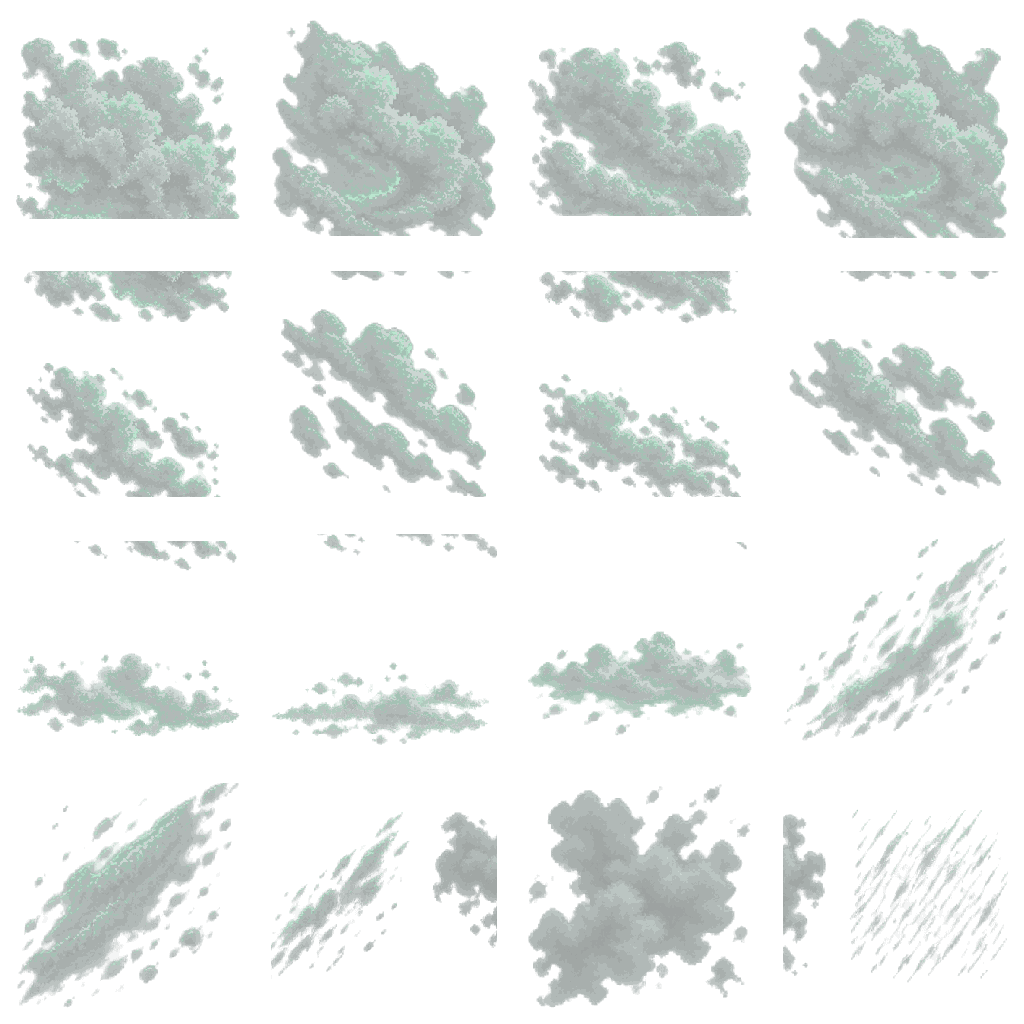
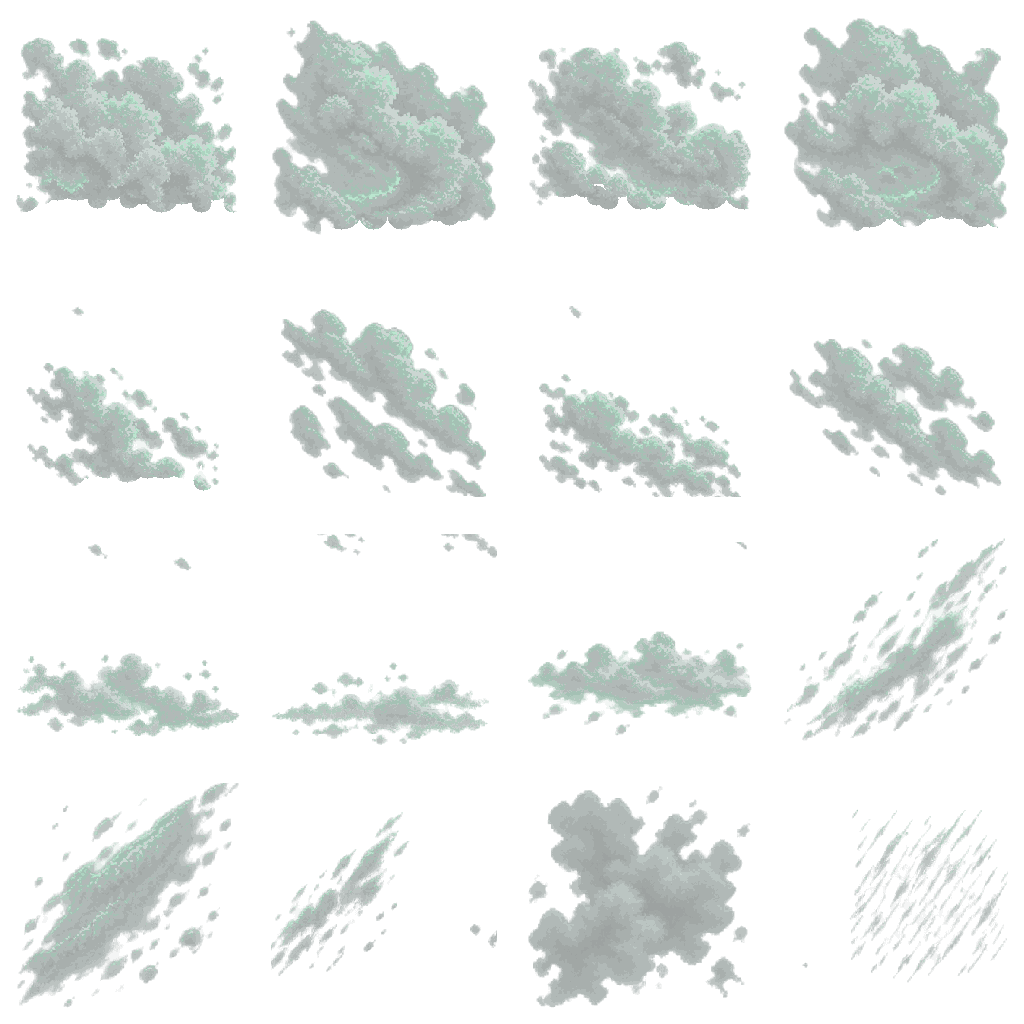
Tide clouds are never cut: banks 0 and 2 lost their flat lower edge (re-scalloped into puffs), flat-topped slivers of the neighbouring cloud dropped from the wisp and mist cells; TideCloudCutTest checks cloud cuts and tile wrap joins

diff --git a/Pause/Assets/Editor/Tests/TideCloudCutTest.cs b/Pause/Assets/Editor/Tests/TideCloudCutTest.cs
@@ -1,0 +1,147 @@
+using System.Collections.Generic;
+using System.IO;
+using UnityEngine;
+
+// TIDE CLOUDS ARE NEVER CUT, AND THE SEA TILES WRAP CLEAN. The Tide teal cloud ceiling (weather.png: cloud_bank, cloud_wisp, mist,
+// gust, pall, rain) is cut from 256 px cells of a painted sheet. The sheet slicing left two defects that drew straight horizontal
+// cut lines across the ceiling in game (BuildCeiling even had to push the rows off screen to hide one):
+//   * a bank whose lower edge is flat, an opaque run far longer than any puff, and
+//   * flat-topped slivers of the cloud ABOVE it in the sheet, left on the top of the next cell (wisps, mist).
+// So: (1) per connected component of every cloud cell, no bounding-box edge holds a straight opaque run over FlatRun, and no
+// small component rests on the cell margin; (2) every ground tile (sky, far, mid, flow x v1..v4) wraps: the join between its
+// last row and its first is no harder than the tile's own row-to-row steps, and no row inside it is a hard horizontal cut.
+//
+//   Unity -batchmode -quit -projectPath <abs>/Pause -executeMethod TideCloudCutTest.Run
+public static class TideCloudCutTest
+{
+    static int fails;
+    static void Check(string what, bool ok)
+    {
+        Debug.Log((ok ? "[TCC] PASS  " : "[TCC] FAIL  ") + what);
+        if (!ok) fails++;
+    }
+
+    public static void Run() { TestHarness.Exit(Execute()); }
+
+    const string Dir = "Assets/Art/Backgrounds/Resources/Worlds/Tide/Backdrop3/";
+    const int Border = 8, FlatRun = 20, Margin = 16, SpeckArea = 1500;
+    const float StepRatio = 6f, JoinRatio = 2.5f;
+
+    [System.Serializable] class Cell { public string n; public int x, y, w, h; }
+    [System.Serializable] class Sheet { public Cell[] sprites; }
+
+    public static int Execute()
+    {
+        fails = 0;
+        Clouds();
+        foreach (var v in new[] { "v1", "v2", "v3", "v4" })
+            foreach (var l in new[] { "sky", "far", "mid", "flow" }) Tile(v, l);
+        Debug.Log("[TCC] failures: " + fails);
+        return fails;
+    }
+
+    static Texture2D Load(string png)
+    {
+        var tex = new Texture2D(2, 2);
+        tex.LoadImage(File.ReadAllBytes(png));
+        return tex;
+    }
+
+    // ---------------------------------------------------------------- clouds --
+
+    static void Clouds()
+    {
+        string png = Dir + "weather.png";
+        if (!File.Exists(png)) { Check("Tide weather: atlas exists", false); return; }
+        var tex = Load(png);
+        var px = tex.GetPixels32();
+        int W = tex.width;
+        var sheet = JsonUtility.FromJson<Sheet>(File.ReadAllText(Dir + "weather.json"));
+        var bad = new List<string>();
+        foreach (var c in sheet.sprites) Cut(px, W, c, bad);
+        Object.DestroyImmediate(tex);
+        Check("Tide weather: no cloud edge is cut flat and no sliver sits on a cell margin (" + (bad.Count == 0 ? "none" : string.Join("; ", bad)) + ")", bad.Count == 0);
+    }
+
+    // y runs down the cell; texture rows run bottom-up
+    static bool Solid(Color32[] px, int W, Cell c, int x, int y) { return px[(c.y + c.h - 1 - y) * W + c.x + x].a > Border; }
+
+    static void Cut(Color32[] px, int W, Cell c, List<string> bad)
+    {
+        var lab = new int[c.w * c.h];
+        var stack = new Stack<int>();
+        int next = 0;
+        for (int s = 0; s < lab.Length; s++)
+        {
+            if (lab[s] != 0 || !Solid(px, W, c, s % c.w, s / c.w)) continue;
+            next++;
+            var pts = new List<int>();
+            lab[s] = next; stack.Push(s);
+            while (stack.Count > 0)
+            {
+                int p = stack.Pop(); pts.Add(p);
+                int x = p % c.w, y = p / c.w;
+                for (int dy = -1; dy <= 1; dy++)
+                    for (int dx = -1; dx <= 1; dx++)
+                    {
+                        int nx = x + dx, ny = y + dy;
+                        if (nx < 0 || ny < 0 || nx >= c.w || ny >= c.h) continue;
+                        int q = ny * c.w + nx;
+                        if (lab[q] == 0 && Solid(px, W, c, nx, ny)) { lab[q] = next; stack.Push(q); }
+                    }
+            }
+            int x0 = int.MaxValue, x1 = -1, y0 = int.MaxValue, y1 = -1;
+            foreach (int p in pts) { int x = p % c.w, y = p / c.w; if (x < x0) x0 = x; if (x > x1) x1 = x; if (y < y0) y0 = y; if (y > y1) y1 = y; }
+            if (pts.Count < 10) continue;
+            int t = Run(lab, c, next, x0, y0, 1, 0), b = Run(lab, c, next, x0, y1, 1, 0), l = Run(lab, c, next, x0, y0, 0, 1), r = Run(lab, c, next, x1, y0, 0, 1);
+            string at = c.n + " part " + pts.Count + "px";
+            if (t > FlatRun) bad.Add(at + " top flat run " + t);
+            if (b > FlatRun) bad.Add(at + " bottom flat run " + b);
+            if (l > FlatRun) bad.Add(at + " left flat run " + l);
+            if (r > FlatRun) bad.Add(at + " right flat run " + r);
+            bool margin = y0 <= Margin;                       // the sheet's slivers hang from the top of the cell
+            if (margin && pts.Count < SpeckArea) bad.Add(at + " is a sliver hanging from the cell top");
+        }
+    }
+
+    // longest unbroken run of one component's pixels along the row (dx 1) or column (dy 1) through (x, y)
+    static int Run(int[] lab, Cell c, int id, int x, int y, int dx, int dy)
+    {
+        int best = 0, cur = 0, n = dx == 1 ? c.w : c.h;
+        for (int i = 0; i < n; i++)
+        {
+            cur = lab[(y + dy * i) * c.w + x + dx * i] == id ? cur + 1 : 0;
+            if (cur > best) best = cur;
+        }
+        return best;
+    }
+
+    // ----------------------------------------------------------------- tiles --
+
+    static void Tile(string v, string layer)
+    {
+        string png = Dir + v + "/" + layer + ".png";
+        if (!File.Exists(png)) { Check("Tide " + v + "/" + layer + ": tile exists", false); return; }
+        var tex = Load(png);
+        var px = tex.GetPixels32();
+        int W = tex.width, H = tex.height;
+        var steps = new float[H];                  // steps[y] = mean |row y - row y+1| (the last entry wraps to row 0)
+        for (int y = 0; y < H; y++)
+        {
+            int a = y * W, b = ((y + 1) % H) * W;
+            float sum = 0;
+            for (int x = 0; x < W; x++)
+                sum += Mathf.Abs(px[a + x].r - px[b + x].r) + Mathf.Abs(px[a + x].g - px[b + x].g) + Mathf.Abs(px[a + x].b - px[b + x].b) + Mathf.Abs(px[a + x].a - px[b + x].a);
+            steps[y] = sum / (4f * W);
+        }
+        Object.DestroyImmediate(tex);
+        var sorted = (float[])steps.Clone();
+        System.Array.Sort(sorted);
+        float median = Mathf.Max(sorted[H / 2], 0.5f);
+        float worst = 0; int at = 0;
+        for (int y = 0; y < H - 1; y++) if (steps[y] > worst) { worst = steps[y]; at = y; }
+        float join = steps[H - 1];
+        Check("Tide " + v + "/" + layer + ": the wrap join (" + join.ToString("F1") + ") is as soft as its own steps (median " + median.ToString("F1") + ")", join <= median * JoinRatio);
+        Check("Tide " + v + "/" + layer + ": no row is a hard cut (worst step " + worst.ToString("F1") + " at row " + at + ", median " + median.ToString("F1") + ")", worst <= median * StepRatio);
+    }
+}

diff --git a/Pause/Assets/Art/Worlds/Tide/backdrop_v3~/cloud_cuts/fix_weather_cuts.py b/Pause/Assets/Art/Worlds/Tide/backdrop_v3~/cloud_cuts/fix_weather_cuts.py
@@ -1,0 +1,77 @@
+#!/usr/bin/env python3
+"""Tide weather atlas: no cloud is cut flat. Slivers that Codex's sheet slicing left on a cell's edge (flat top, a long
+straight opaque run) are dropped whole by connected component; a cloud whose own edge is cut flat gets that edge re-scalloped
+into 4 px puffs like the rest of the cloud. Mirrors TideCloudCutTest. Run: python3 fix_weather_cuts.py <weather.png> <weather.json>"""
+import sys, json, numpy as np
+from PIL import Image
+from scipy import ndimage as ndi
+BORDER, FLAT = 8, 20
+png, js = sys.argv[1], sys.argv[2]
+a = np.array(Image.open(png).convert('RGBA')); H = a.shape[0]
+rng = np.random.RandomState(7)
+
+def run(v):
+    best = cur = 0
+    for x in v:
+        cur = cur + 1 if x else 0
+        best = max(best, cur)
+    return best
+
+def edges(m):
+    ys, xs = np.where(m)
+    y0, y1, x0, x1 = ys.min(), ys.max(), xs.min(), xs.max()
+    return y0, y1, x0, x1, {'t': run(m[y0]), 'b': run(m[y1]), 'l': run(m[:, x0]), 'r': run(m[:, x1])}
+
+def scallop(cell, comp, side):
+    """re-cut the flat 'bottom' edge of comp (cell rotated so the flat side is down): below a line 32 px above the old edge a
+    pixel survives only inside one of a row of round puffs (radius 10..24, centres snapped to 4 px, spaced about a radius
+    apart), so the underside ends in rounded puffs of different sizes like the cloud's other edges"""
+    y0, y1, x0, x1, _ = edges(comp)
+    cols = np.where(comp[y1])[0]
+    xa, xb = cols.min(), cols.max()
+    yy, xx = np.mgrid[0:cell.shape[0], 0:cell.shape[1]]
+    keep = np.zeros(comp.shape, bool)
+    x = xa - 8
+    while x <= xb + 8:
+        r = int(rng.randint(3, 7)) * 4 - 2
+        cy = (y1 - 6 - int(rng.randint(0, 4)) * 4) - r
+        keep |= ((xx - x) ** 2 + (yy - cy) ** 2) <= r * r
+        x += int(r * 0.9) // 4 * 4 + 4
+    zone = comp & (yy > y1 - 32) & (xx >= xa - 8) & (xx <= xb + 8)
+    cell[zone & ~keep, 3] = 0
+    return cell
+
+d = json.load(open(js))
+for s in d['sprites']:
+    iy = H - s['y'] - s['h']; ix = s['x']
+    cell = a[iy:iy + s['h'], ix:ix + s['w']].copy()
+    for _ in range(200):
+        lab, n = ndi.label(cell[:, :, 3] > BORDER, structure=np.ones((3, 3)))
+        changed = False
+        for i in range(1, n + 1):
+            m = lab == i
+            if m.sum() < 10: continue
+            y0, y1, x0, x1, e = edges(m)
+            side = max(e, key=e.get)
+            margin = y0 <= 16
+            if m.sum() < 1500 and margin:
+                cell[m, 3] = 0          # speck of a neighbouring cloud on the cell margin
+                changed = True
+                break
+            if e[side] <= FLAT: continue
+            if (m.sum() < 14000 and side in 'tlr') or m.sum() < 700:
+                cell[m, 3] = 0          # fragment of a neighbouring cloud: drop whole
+            else:
+                k = {'b': 0, 't': 2, 'r': 1, 'l': 3}[side]
+                rc = np.rot90(cell, k).copy(); rm = np.rot90(m, k).copy()
+                rc = scallop(rc, rm, side)
+                cell = np.rot90(rc, -k).copy()
+            changed = True
+            break
+        if not changed: break
+    # drop specks left behind
+    lab, n = ndi.label(cell[:, :, 3] > BORDER, structure=np.ones((3, 3)))
+    for i in range(1, n + 1):
+        if (lab == i).sum() < 24: cell[lab == i, 3] = 0
+    a[iy:iy + s['h'], ix:ix + s['w']] = cell
+Image.fromarray(a).save(png)

diff --git a/Pause/Assets/Editor/Tests/AllTests.cs b/Pause/Assets/Editor/Tests/AllTests.cs
@@ -344,6 +344,7 @@ public static class AllTests
         ("BackdropAnchorTest", BackdropAnchorTest.Execute),
         ("BackdropCellBleedTest", BackdropCellBleedTest.Execute),
         ("StormCloudCutTest", StormCloudCutTest.Execute),
+        ("TideCloudCutTest", TideCloudCutTest.Execute),
         ("BackdropResolutionTest", BackdropResolutionTest.Execute),
         ("EnemyResolutionTest", EnemyResolutionTest.Execute),
         ("FrameStillsTest", FrameStillsTest.Execute),
